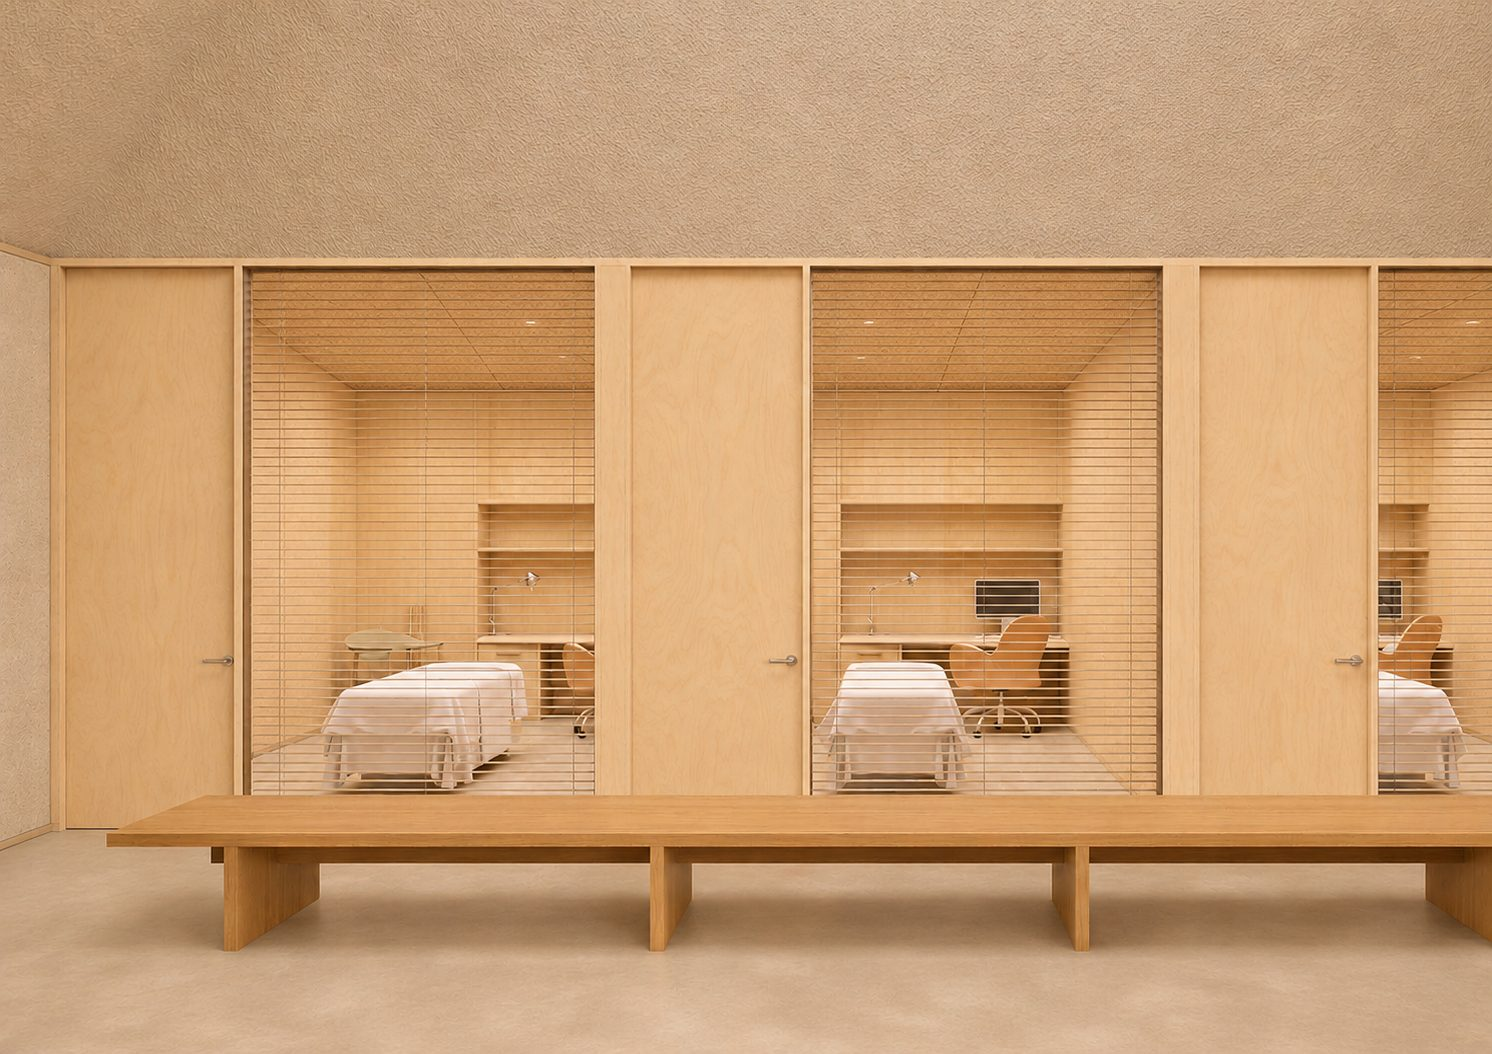
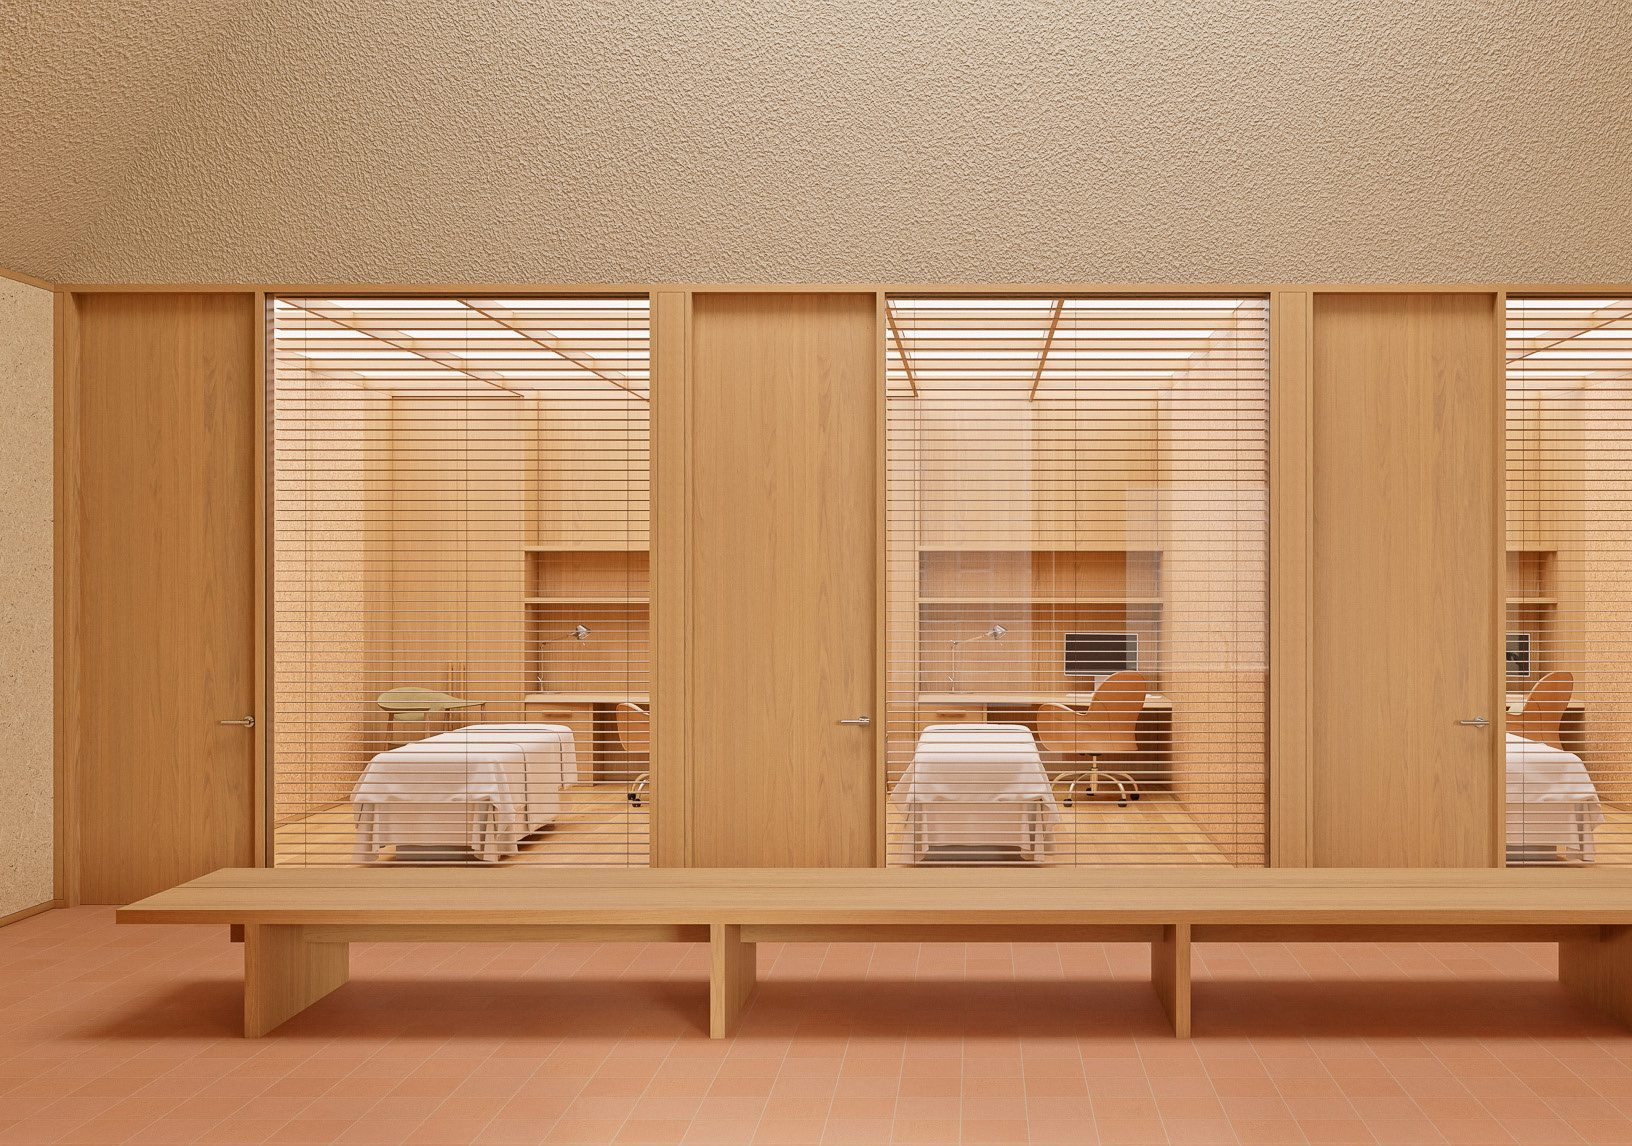
Swap in the professional renders from the Together Wellness Renders folder
Replaces the placeholder images of each space with the final renders, adds a
single treatment room render, and uses the wide reformer studio as the Pilates
hero (the equipment-wall render is only available at 1080px).

Claude-Session: https://claude.ai/code/session_011MB55vXwLhMbMHEM2KTBw4

diff --git a/content/pages.ts b/content/pages.ts
@@ -73,7 +73,7 @@ export const pages: Page[] = [
       },
       {
         _type: 'tile',
-        image: im('reception-lounge', 'Reception lounge with timber joinery and a planted pot'),
+        image: im('reception-lounge', 'Reception lounge with timber joinery and a stone basin'),
         caption: 'Reception, Mosman Park',
         description: 'Natural materials, warm textures and considered details.',
         link: '/our-space',
@@ -145,7 +145,7 @@ export const pages: Page[] = [
           'We bring together expert physiotherapy, considered Pilates and a more personal approach to wellbeing, in a space designed around the way we move, feel and live.',
         ],
         link: { label: 'Explore our space', href: '/our-space' },
-        slides: [im('reception-lounge', 'Reception lounge with timber joinery and a planted pot', 'Reception' + ai)],
+        slides: [im('reception-lounge', 'Reception lounge with timber joinery and a stone basin', 'Reception' + ai)],
       },
       {
         _type: 'split',
@@ -218,9 +218,9 @@ export const pages: Page[] = [
           'A place where the experience of arriving, moving and spending time matters just as much as the care you receive.',
         ],
         slides: [
-          im('reception-lounge', 'Reception lounge with timber joinery and a planted pot', 'Reception' + ai),
-          im('lounge-seating', 'Lounge with armchairs and artwork', 'Lounge' + ai),
-          im('arrival', 'Reception desk with timber shelving', 'Arrival' + ai),
+          im('reception-lounge', 'Reception lounge with timber joinery and a stone basin', 'Reception' + ai),
+          im('lounge-seating', 'Reception lounge with a planted pot', 'Reception lounge' + ai),
+          im('arrival', 'Reception desk with a brushed metal front', 'Arrival' + ai),
         ],
       },
       {
@@ -266,7 +266,10 @@ export const pages: Page[] = [
           'Private rooms for physiotherapy appointments, a short walk from the studios, so moving between treatment and classes is simple.',
         ],
         link: { label: 'Explore Physiotherapy', href: '/physiotherapy' },
-        slides: [im('treatment-rooms', 'Physiotherapy treatment rooms', 'Treatment rooms' + ai)],
+        slides: [
+          im('treatment-rooms', 'Physiotherapy treatment rooms', 'Treatment rooms' + ai),
+          im('treatment-room', 'Inside a treatment room', 'Treatment room' + ai),
+        ],
       },
       {
         _type: 'split',
@@ -277,7 +280,7 @@ export const pages: Page[] = [
         link: { label: 'Explore Wellness', href: '/wellness' },
         slides: [
           im('lounge', 'Lounge with armchairs and artwork', 'Lounge' + ai),
-          im('lounge-seating', 'Lounge seating', 'Lounge' + ai),
+          im('lounge-seating', 'Reception lounge with a planted pot', 'Lounge' + ai),
         ],
       },
       {
@@ -294,7 +297,7 @@ export const pages: Page[] = [
     title: 'Pilates',
     seoDescription:
       'Group Reformer, Strength, Ante and Postnatal, and Clinical Pilates at Mos Lane, Mosman Park, programmed by physiotherapists.',
-    hero: im('reformer-studio', 'Reformer Pilates studio at Together Wellness'),
+    hero: im('reformer-studio-wide', 'Reformer Pilates studio at Together Wellness'),
     blocks: [
       {
         _type: 'pageTitle',
@@ -303,7 +306,7 @@ export const pages: Page[] = [
         quote: 'Movement with purpose.',
         intro: 'Group Reformer, Strength, Ante and Postnatal, and Clinical Pilates at Mos Lane, Mosman Park.',
       },
-      { _type: 'fullImage', image: im('reformer-studio-wide', 'Reformer studio at Together Wellness'), caption: 'Reformer Studio, Mosman Park', aspect: '16 / 8' },
+      { _type: 'fullImage', image: im('reformer-studio', 'Reformers in front of the equipment wall'), caption: 'Reformer Studio, Mosman Park', aspect: '16 / 8' },
       {
         _type: 'statement',
         text: 'From dynamic reformer classes to personalised clinical Pilates, every session is shaped by physiotherapists: how classes are programmed, how instructors are trained, and how each exercise is adapted to the person doing it.',
@@ -378,7 +381,7 @@ export const pages: Page[] = [
       },
       {
         _type: 'imagePair',
-        left: im('hands-knee', 'Hands resting on a knee, black and white'),
+        left: im('treatment-room', 'Physiotherapy treatment room with desk and chairs'),
         right: im('open-hand', 'Open hand, black and white'),
       },
       {
@@ -434,7 +437,7 @@ export const pages: Page[] = [
       },
       {
         _type: 'tileWithText',
-        tile: { ...im('arrival', 'Reception desk with timber shelving', 'Arrival, Mosman Park'), description: 'Arrive, settle in and take a moment before you move.' },
+        tile: { ...im('arrival', 'Reception desk with a brushed metal front', 'Arrival, Mosman Park'), description: 'Arrive, settle in and take a moment before you move.' },
         heading: 'Room to pause.',
         paragraphs: [
           'Inspired by the natural warmth and relaxed rhythm of coastal Western Australia, our space has been thoughtfully designed to balance movement with moments of pause.',
